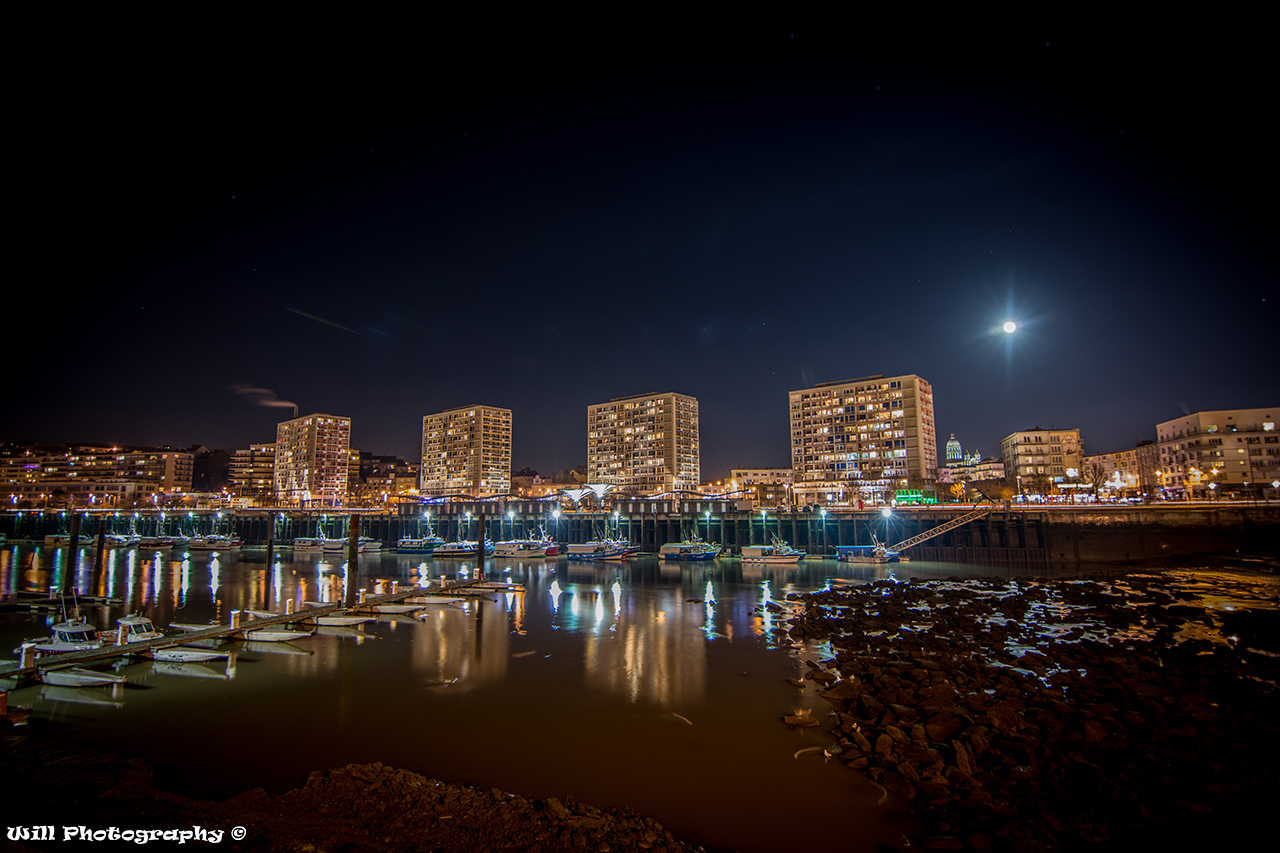
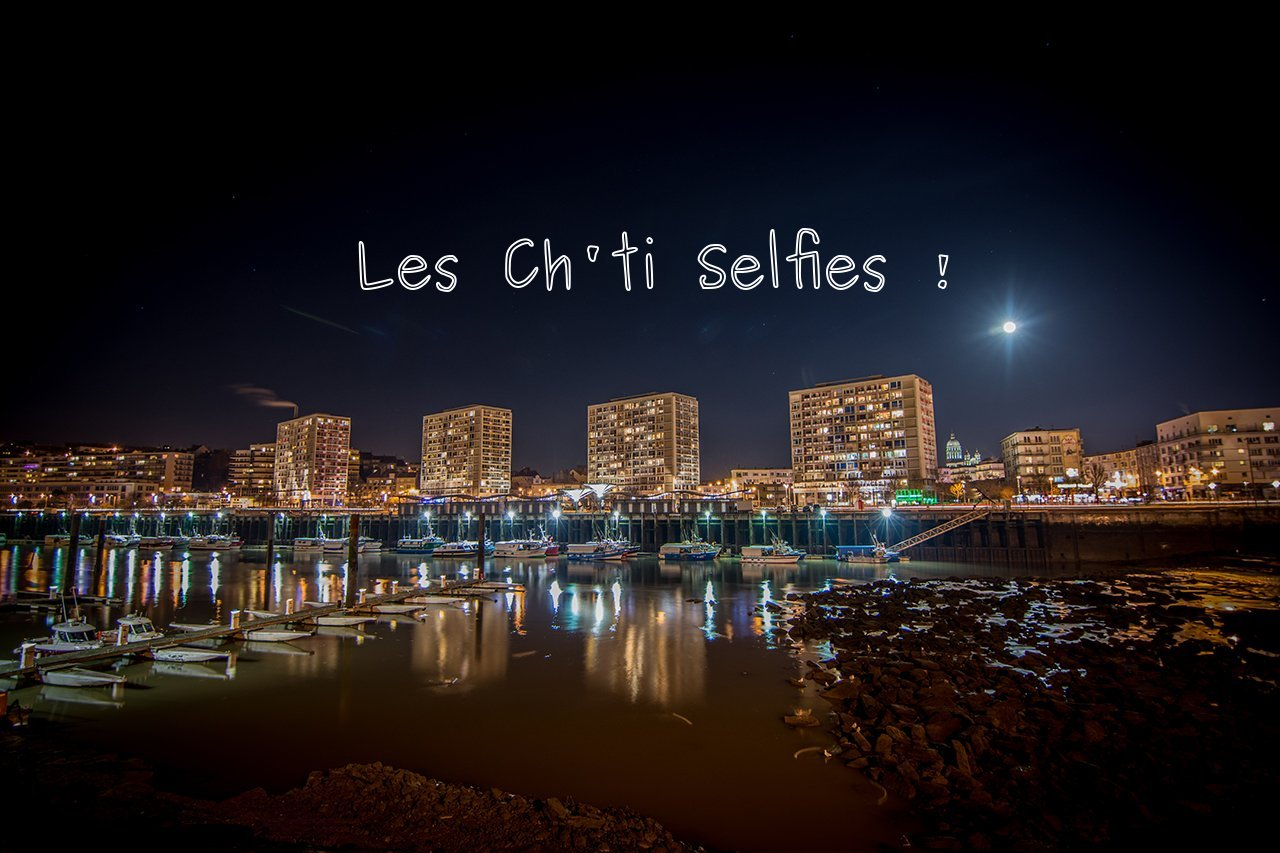
push elise description

diff --git a/css/ELStyle.css b/css/ELStyle.css
@@ -1,0 +1,10 @@
+#description p {
+    padding: 2%;
+    text-align: justify;
+    text-align-last: center;
+    font-size: 1.3em;
+}
+
+#description h1 {
+    text-align: center;
+}

diff --git a/inc/description.php b/inc/description.php
@@ -1,0 +1,4 @@
+<div id="description" class="col s12 m12 l12">
+  <h1> A vos "Chelfies" ! </h1>
+  <p> N'as tu jamais rêvé de te retrouver en première page d'un site internet ? Et bien nous pouvons réaliser ton rêve ! Les règles sont simples : Prends la meilleure photo de toi devant un monument Boulonnais, puis poste là ! La photo qui remporte le plus de votes sera publiée en première page de notre site ! Vous êtes prêt ? 3, 2, 1 ... Selfie ! </p>
+</div>
